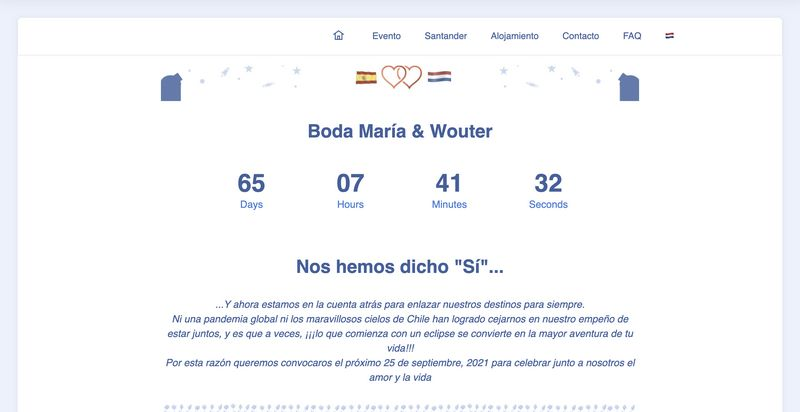
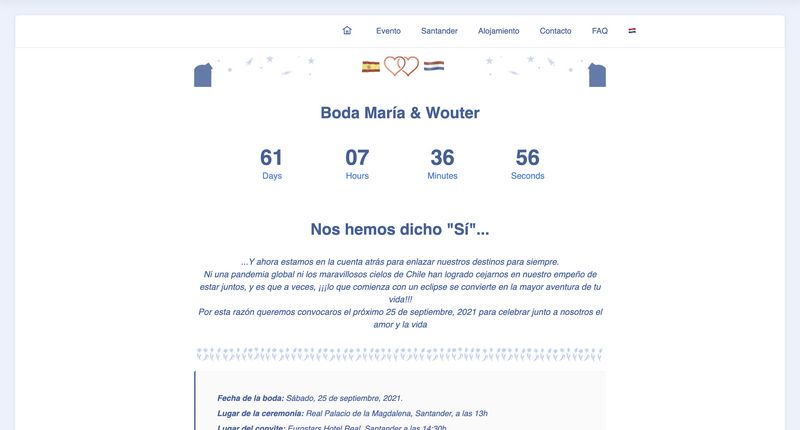
Changed the color of the hamburger to something darker.

diff --git a/faq.html b/faq.html
@@ -58,7 +58,7 @@
     </nav>
 </section>
 
-<section class="engine"><a href="https://mobirise.info/b">create a site</a></section><section class="image3 cid-sAUeQByKgb" id="image3-z">
+<section class="engine"><a href="https://mobirise.info/j">website templates</a></section><section class="image3 cid-sAUeQByKgb" id="image3-z">
     
 
     
@@ -129,16 +129,16 @@
                     
                     
                 </div>
-                <div id="bootstrap-accordion_88" class="panel-group accordionStyles accordion mt-4" role="tablist" aria-multiselectable="true">
+                <div id="bootstrap-accordion_66" class="panel-group accordionStyles accordion mt-4" role="tablist" aria-multiselectable="true">
                     <div class="card mb-3">
                         <div class="card-header" role="tab" id="headingOne">
-                            <a role="button" class="panel-title collapsed" data-toggle="collapse" data-core="" href="#collapse1_88" aria-expanded="false" aria-controls="collapse1">
+                            <a role="button" class="panel-title collapsed" data-toggle="collapse" data-core="" href="#collapse1_66" aria-expanded="false" aria-controls="collapse1">
                                 <h6 class="panel-title-edit mbr-fonts-style mb-0 display-7"><strong>Tengo que seguir una dieta especial, habrá menús adaptados a mi dieta?</strong>
                                 </h6>
                                 <span class="sign mbr-iconfont mbri-arrow-down inactive"></span>
                             </a>
                         </div>
-                        <div id="collapse1_88" class="panel-collapse noScroll collapse" role="tabpanel" aria-labelledby="headingOne" data-parent="#bootstrap-accordion_88">
+                        <div id="collapse1_66" class="panel-collapse noScroll collapse" role="tabpanel" aria-labelledby="headingOne" data-parent="#bootstrap-accordion_66">
                             <div class="panel-body">
                                 <p class="mbr-fonts-style panel-text display-4"><em>Sí. Tan sólo necesitamos que te pongas en contacto con nosotros lo antes posibles y nos indiques que restricciones alimenticias tienes. Nosotros nos encargaremos del resto.</em></p>
                             </div>
@@ -146,13 +146,13 @@
                     </div>
                     <div class="card mb-3">
                         <div class="card-header" role="tab" id="headingOne">
-                            <a role="button" class="panel-title collapsed" data-toggle="collapse" data-core="" href="#collapse2_88" aria-expanded="false" aria-controls="collapse2">
+                            <a role="button" class="panel-title collapsed" data-toggle="collapse" data-core="" href="#collapse2_66" aria-expanded="false" aria-controls="collapse2">
                                 <h6 class="panel-title-edit mbr-fonts-style mb-0 display-7"><strong>Habrá menús adecuados para los más pequeños?
                                     </strong></h6>
                                 <span class="sign mbr-iconfont mbri-arrow-down inactive"></span>
                             </a>
                         </div>
-                        <div id="collapse2_88" class="panel-collapse noScroll collapse" role="tabpanel" aria-labelledby="headingOne" data-parent="#bootstrap-accordion_88">
+                        <div id="collapse2_66" class="panel-collapse noScroll collapse" role="tabpanel" aria-labelledby="headingOne" data-parent="#bootstrap-accordion_66">
                             <div class="panel-body">
                                 <p class="mbr-fonts-style panel-text display-4"><em>Sí. No obstante, si vuestro hij@ tiene algún tipo de restricción alimentaria os rogamos que contactéis con nosotros lo antes posible para que podamos indicárselo al restaurante con tiempo suficiente.</em><br></p>
                             </div>
@@ -160,12 +160,12 @@
                     </div>
                     <div class="card mb-3">
                         <div class="card-header" role="tab" id="headingOne">
-                            <a role="button" class="panel-title collapsed" data-toggle="collapse" data-core="" href="#collapse3_88" aria-expanded="false" aria-controls="collapse3">
+                            <a role="button" class="panel-title collapsed" data-toggle="collapse" data-core="" href="#collapse3_66" aria-expanded="false" aria-controls="collapse3">
                                 <h6 class="panel-title-edit mbr-fonts-style mb-0 display-7"><strong>Se puede acceder en coche al Palacio de la Magdalena?</strong></h6>
                                 <span class="sign mbr-iconfont mbri-arrow-down inactive"></span>
                             </a>
                         </div>
-                        <div id="collapse3_88" class="panel-collapse noScroll collapse" role="tabpanel" aria-labelledby="headingOne" data-parent="#bootstrap-accordion_88">
+                        <div id="collapse3_66" class="panel-collapse noScroll collapse" role="tabpanel" aria-labelledby="headingOne" data-parent="#bootstrap-accordion_66">
                             <div class="panel-body">
                                 <p class="mbr-fonts-style panel-text display-4"><em>Sí. Es posible acceder al Palacio de la Magdalena en coche. A la entrada del parque tan sólo tenéis que indicar que vais a asistir al enlace. No obstante tened encuenta que el espacio para parking es limitado y que se celebran bodas cada 30 minutos, por lo tanto, os recomendamos que compartáis coche siempre que sea posible y que las medidas sanitarias impuestas contra el Covid-19 lo permitan.</em></p>
                             </div>
@@ -173,12 +173,12 @@
                     </div>
                     <div class="card mb-3">
                         <div class="card-header" role="tab" id="headingOne">
-                            <a role="button" class="panel-title collapsed" data-toggle="collapse" data-core="" href="#collapse4_88" aria-expanded="false" aria-controls="collapse4">
+                            <a role="button" class="panel-title collapsed" data-toggle="collapse" data-core="" href="#collapse4_66" aria-expanded="false" aria-controls="collapse4">
                                 <h6 class="panel-title-edit mbr-fonts-style mb-0 display-7"><strong>Con cuánto tiempo de antelación se ha de llegar al Palacio de la Magdalena?</strong></h6>
                                 <span class="sign mbr-iconfont mbri-arrow-down inactive"></span>
                             </a>
                         </div>
-                        <div id="collapse4_88" class="panel-collapse noScroll collapse" role="tabpanel" aria-labelledby="headingOne" data-parent="#bootstrap-accordion_88">
+                        <div id="collapse4_66" class="panel-collapse noScroll collapse" role="tabpanel" aria-labelledby="headingOne" data-parent="#bootstrap-accordion_66">
                             <div class="panel-body">
                                 <p class="mbr-fonts-style panel-text display-4"><em>Las bodas civiles en el Palacio de la Magdalena tienen la característica de ser muy puntuales ya que se celebran cada 30 minutos.&nbsp;</em><br><em>Esto significa que para poder asistir al enlace, tenéis que llegar al Palacio de la Magdalena entre las 12:30h y las 12:45h aproximadamente. Protocolo os mandará pasar al salón a las 12:50h y cuando estéis todos acomodados mandarán pasar al novio, (sobre las 12:55h) y finalmente a las 13h darán aviso para que pase la novia. Por esta razón es muy importante que seáis puntuales ya que una vez que los invitados sean invitados a pasar al salón donde se celebrará en enlace, ya no se podrá acceder.<br></em><br></p>
                             </div>
@@ -186,13 +186,13 @@
                     </div>
                     <div class="card mb-3">
                         <div class="card-header" role="tab" id="headingOne">
-                            <a role="button" class="panel-title collapsed" data-toggle="collapse" data-core="" href="#collapse5_88" aria-expanded="false" aria-controls="collapse5">
+                            <a role="button" class="panel-title collapsed" data-toggle="collapse" data-core="" href="#collapse5_66" aria-expanded="false" aria-controls="collapse5">
                                 <h6 class="panel-title-edit mbr-fonts-style mb-0 display-7"><strong>Qué medidas sanitarias contra el Covid-19 se van a implementar durante el fin de semana?
                                     </strong></h6>
                                 <span class="sign mbr-iconfont mbri-arrow-down inactive"></span>
                             </a>
                         </div>
-                        <div id="collapse5_88" class="panel-collapse noScroll collapse" role="tabpanel" aria-labelledby="headingOne" data-parent="#bootstrap-accordion_88">
+                        <div id="collapse5_66" class="panel-collapse noScroll collapse" role="tabpanel" aria-labelledby="headingOne" data-parent="#bootstrap-accordion_66">
                             <div class="panel-body">
                                 <p class="mbr-fonts-style panel-text display-4"><em>Como sabéis, en estos momentos la evolución de la crisis actual con el Covid-19 es prácticamente impredecible. No obstantes estamos en continuo contacto con nuestros proveedores con el fin de garantizar que en todo momento se lleven a cabo todas las medidas sanitarias disponibles para garantizar que el evento sea seguro para todos. Os mantendremos informados de cualquier cambio que pueda surgir durante las proximas semanas.</em><br></p>
                             </div>
@@ -200,12 +200,12 @@
                     </div>
                     <div class="card mb-3">
                         <div class="card-header" role="tab" id="headingOne">
-                            <a role="button" class="panel-title collapsed" data-toggle="collapse" data-core="" href="#collapse6_88" aria-expanded="false" aria-controls="collapse6">
+                            <a role="button" class="panel-title collapsed" data-toggle="collapse" data-core="" href="#collapse6_66" aria-expanded="false" aria-controls="collapse6">
                                 <h6 class="panel-title-edit mbr-fonts-style mb-0 display-7"><strong>Regalos</strong></h6>
                                 <span class="sign mbr-iconfont mbri-arrow-down inactive"></span>
                             </a>
                         </div>
-                        <div id="collapse6_88" class="panel-collapse noScroll collapse" role="tabpanel" aria-labelledby="headingOne" data-parent="#bootstrap-accordion_88">
+                        <div id="collapse6_66" class="panel-collapse noScroll collapse" role="tabpanel" aria-labelledby="headingOne" data-parent="#bootstrap-accordion_66">
                             <div class="panel-body">
                                 <p class="mbr-fonts-style panel-text display-4">Proximamente os daremos mas información respecto a este punto.</p>
                             </div>
@@ -229,15 +229,15 @@
                     
                     
                 </div>
-                <div id="bootstrap-accordion_89" class="panel-group accordionStyles accordion mt-4" role="tablist" aria-multiselectable="true">
+                <div id="bootstrap-accordion_67" class="panel-group accordionStyles accordion mt-4" role="tablist" aria-multiselectable="true">
                     <div class="card mb-3">
                         <div class="card-header" role="tab" id="headingOne">
-                            <a role="button" class="panel-title collapsed" data-toggle="collapse" data-core="" href="#collapse1_89" aria-expanded="false" aria-controls="collapse1">
+                            <a role="button" class="panel-title collapsed" data-toggle="collapse" data-core="" href="#collapse1_67" aria-expanded="false" aria-controls="collapse1">
                                 <h6 class="panel-title-edit mbr-fonts-style mb-0 display-7"><strong>"Dress Code"</strong>&nbsp; &nbsp; &nbsp; &nbsp; &nbsp; &nbsp; &nbsp; &nbsp; &nbsp; &nbsp; &nbsp; &nbsp; &nbsp; &nbsp; &nbsp; &nbsp; &nbsp;</h6>
                                 <span class="sign mbr-iconfont mbri-arrow-down inactive"></span>
                             </a>
                         </div>
-                        <div id="collapse1_89" class="panel-collapse noScroll collapse" role="tabpanel" aria-labelledby="headingOne" data-parent="#bootstrap-accordion_89">
+                        <div id="collapse1_67" class="panel-collapse noScroll collapse" role="tabpanel" aria-labelledby="headingOne" data-parent="#bootstrap-accordion_67">
                             <div class="panel-body">
                                 <p class="mbr-fonts-style panel-text display-4">En España la costumbre es vestirse adecuadamente para este tipo de celebraciones. No obstante, queremos que os sintáis cómodos por lo que no vamos a imponer ningun tipo de "dress code" para el evento.</p>
                             </div>

diff --git a/contacto.html b/contacto.html
@@ -60,7 +60,7 @@
     </nav>
 </section>
 
-<section class="engine"><a href="https://mobirise.info/r">free bootstrap templates</a></section><section class="image3 cid-sAUfKiZKti" id="image3-1l">
+<section class="engine"><a href="https://mobirise.info/m">site design templates</a></section><section class="image3 cid-sAUfKiZKti" id="image3-1l">
     
 
     
@@ -127,7 +127,7 @@
         
         <div class="row justify-content-center mt-4">
             <div class="col-lg-8 mx-auto mbr-form" data-form-type="formoid">
[2 lines of base64/hex data omitted]
                     <div class="">
                         <div hidden="hidden" data-form-alert="" class="alert alert-success col-12">Gracias por contactar con nostros! Nos pondremos en contacto contigo lo antes posible. Nos vemos muy pronto!!!</div>
                         <div hidden="hidden" data-form-alert-danger="" class="alert alert-danger col-12">Oops...! some

diff --git a/contact.html b/contact.html
@@ -60,7 +60,7 @@
     </nav>
 </section>
 
-<section class="engine"><a href="https://mobirise.info/t">amp templates</a></section><section class="image3 cid-sCTNQ8w6bg" id="image3-6i">
+<section class="engine"><a href="https://mobirise.info/i">free web creation software</a></section><section class="image3 cid-sCTNQ8w6bg" id="image3-6i">
     
 
     
@@ -127,7 +127,7 @@
         
         <div class="row justify-content-center mt-4">
             <div class="col-lg-8 mx-auto mbr-form" data-form-type="formoid">
[2 lines of base64/hex data omitted]
                     <div class="">
                         <div hidden="hidden" data-form-alert="" class="alert alert-success col-12">Dank je voor je bericht. We nemen zo snel mogelijk contact met je op. Tot binnenkort!!!</div>
                         <div hidden="hidden" data-form-alert-danger="" class="alert alert-danger col-12">Oops...! some

diff --git a/assets/mobirise/css/mbr-additional.css b/assets/mobirise/css/mbr-additional.css
@@ -1006,7 +1006,7 @@ a {
   width: 30px;
   height: 2px;
   border-right: 5px;
-  background-color: #f4f3f9;
+  background-color: #435f9e;
 }
 .cid-sCUsiOZzGM button.navbar-toggler .hamburger span:nth-child(1) {
   top: 0;
@@ -1534,7 +1534,7 @@ a {
   width: 30px;
   height: 2px;
   border-right: 5px;
-  background-color: #f4f3f9;
+  background-color: #435f9e;
 }
 .cid-sCUst78wRE button.navbar-toggler .hamburger span:nth-child(1) {
   top: 0;
@@ -2089,7 +2089,7 @@ a {
   width: 30px;
   height: 2px;
   border-right: 5px;
-  background-color: #f4f3f9;
+  background-color: #435f9e;
 }
 .cid-sCUsxygxYa button.navbar-toggler .hamburger span:nth-child(1) {
   top: 0;
@@ -2658,7 +2658,7 @@ a {
   width: 30px;
   height: 2px;
   border-right: 5px;
-  background-color: #f4f3f9;
+  background-color: #435f9e;
 }
 .cid-sCUsENrjwH button.navbar-toggler .hamburger span:nth-child(1) {
   top: 0;
@@ -3198,7 +3198,7 @@ a {
   width: 30px;
   height: 2px;
   border-right: 5px;
-  background-color: #f4f3f9;
+  background-color: #435f9e;
 }
 .cid-sCUsIriEnU button.navbar-toggler .hamburger span:nth-child(1) {
   top: 0;
@@ -3692,7 +3692,7 @@ a {
   width: 30px;
   height: 2px;
   border-right: 5px;
-  background-color: #f4f3f9;
+  background-color: #435f9e;
 }
 .cid-sCUsM0YWOB button.navbar-toggler .hamburger span:nth-child(1) {
   top: 0;

diff --git a/verblijf.html b/verblijf.html
@@ -57,7 +57,7 @@
     </nav>
 </section>
 
-<section class="engine"><a href="https://mobirise.info/z">best free html templates</a></section><section class="image3 cid-sCTNKhVrX1" id="image3-6a">
+<section class="engine"><a href="https://mobirise.info/e">make your own website for free</a></section><section class="image3 cid-sCTNKhVrX1" id="image3-6a">
     
 
     

diff --git a/index.html b/index.html
@@ -57,7 +57,7 @@
     </nav>
 </section>
 
-<section class="engine"><a href="https://mobirise.info/q">free responsive site templates</a></section><section class="image3 cid-sAU3Kihlen" id="image3-y">
+<section class="engine"><a href="https://mobirise.info/r">bootstrap templates</a></section><section class="image3 cid-sAU3Kihlen" id="image3-y">
     
 
     

diff --git a/index_nl.html b/index_nl.html
@@ -57,7 +57,7 @@
     </nav>
 </section>
 
-<section class="engine"><a href="https://mobirise.info/y">free html site templates</a></section><section class="image3 cid-sCUgAAI4SJ" id="image3-6z">
+<section class="engine"><a href="https://mobirise.info/v">free html templates</a></section><section class="image3 cid-sCUgAAI4SJ" id="image3-6z">
     
 
     

diff --git a/santander.html b/santander.html
@@ -57,7 +57,7 @@
     </nav>
 </section>
 
-<section class="engine"><a href="https://mobirise.info/m">free web design templates</a></section><section class="image3 cid-sAUfHRde7w" id="image3-1b">
+<section class="engine"><a href="https://mobirise.info/a">online web builder</a></section><section class="image3 cid-sAUfHRde7w" id="image3-1b">
     
 
     

diff --git a/santander_nl.html b/santander_nl.html
@@ -57,7 +57,7 @@
     </nav>
 </section>
 
-<section class="engine"><a href="https://mobirise.info/s">free bootstrap theme</a></section><section class="image3 cid-sCTNEPgG9R" id="image3-5x">
+<section class="engine"><a href="https://mobirise.info/n">simple site templates</a></section><section class="image3 cid-sCTNEPgG9R" id="image3-5x">
     
 
     

diff --git a/faq_nl.html b/faq_nl.html
@@ -58,7 +58,7 @@
     </nav>
 </section>
 
-<section class="engine"><a href="https://mobirise.info/o">portfolio site templates</a></section><section class="image3 cid-sCTNU0r6nx" id="image3-6s">
+<section class="engine"><a href="https://mobirise.info/s">bootstrap themes</a></section><section class="image3 cid-sCTNU0r6nx" id="image3-6s">
     
 
     

diff --git a/evento.html b/evento.html
@@ -57,7 +57,7 @@
     </nav>
 </section>
 
-<section class="engine"><a href="https://mobirise.info/x">css templates</a></section><section class="image3 cid-sAUfGxGMou" id="image3-16">
+<section class="engine"><a href="https://mobirise.info/r">free bootstrap templates</a></section><section class="image3 cid-sAUfGxGMou" id="image3-16">
     
 
     

diff --git a/event.html b/event.html
@@ -57,7 +57,7 @@
     </nav>
 </section>
 
-<section class="engine"><a href="https://mobirise.info/c">site builder</a></section><section class="image3 cid-sCTNyVX0nv" id="image3-5p">
+<section class="engine"><a href="https://mobirise.info/g">build your own website</a></section><section class="image3 cid-sCTNyVX0nv" id="image3-5p">
     
 
     
